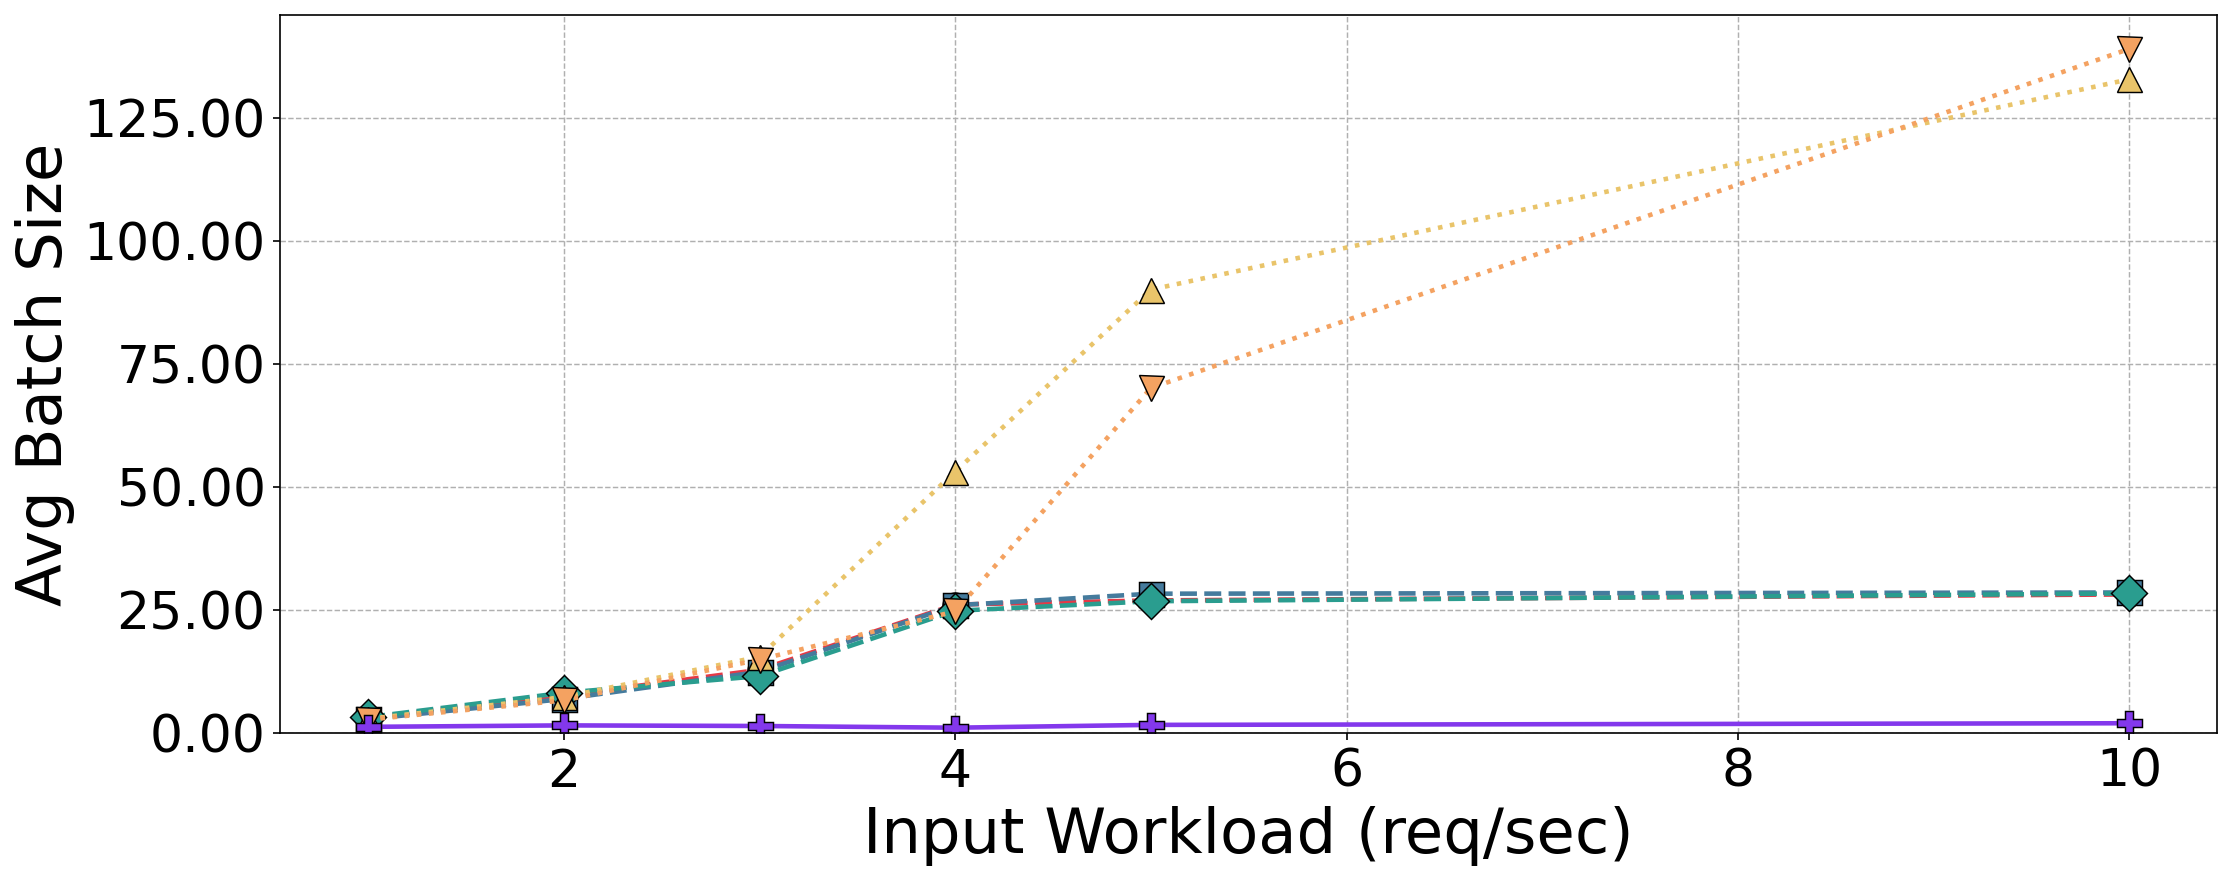
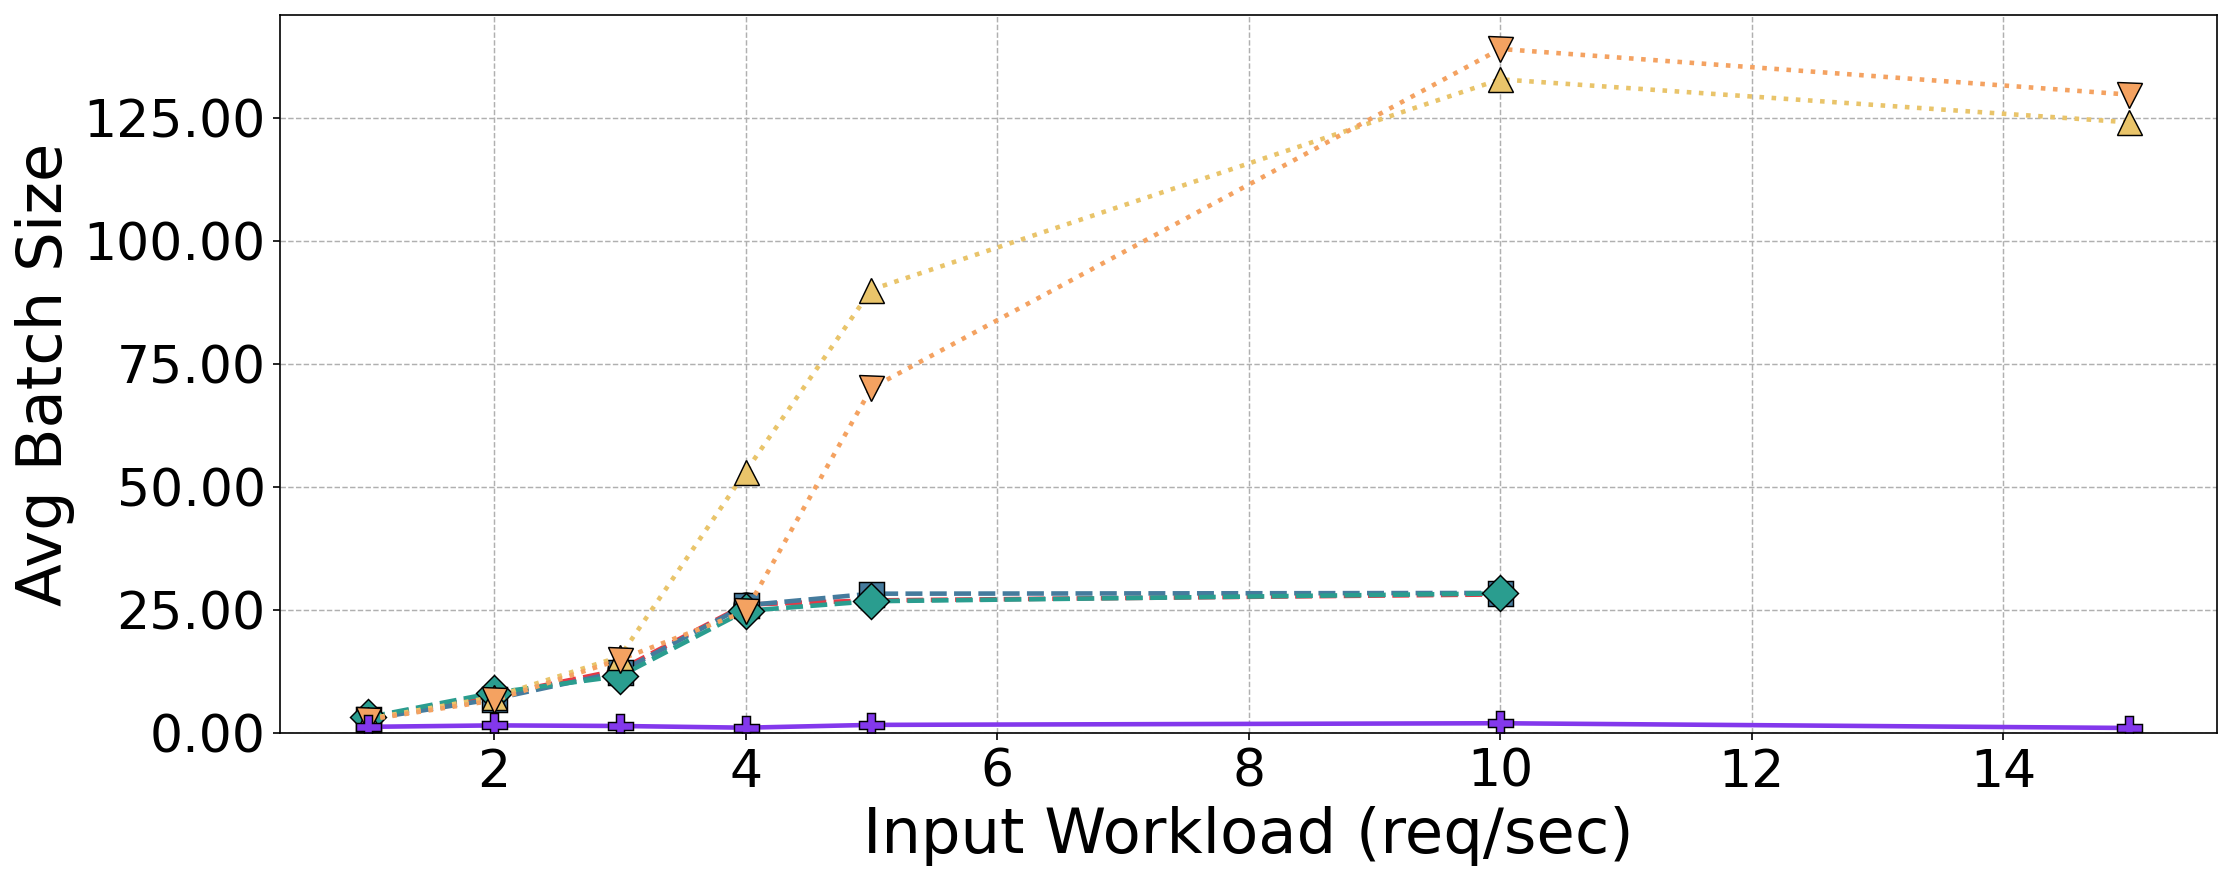
no pref sharing plots

diff --git a/code/vllm/no_pref_sharing_logs/plot.py b/code/vllm/no_pref_sharing_logs/plot.py
@@ -102,7 +102,7 @@ for path in log_files:
     if policy == "chunked_hash_tree_bandit":
         policy = "Feather"
     if policy == "chunked_hash_tree_heuristic":
-        continue
+        policy = "Feather"
     label = f"{engine}:{policy}"
 
     avg_batch, avg_diff, throughput = parse_log(path)
